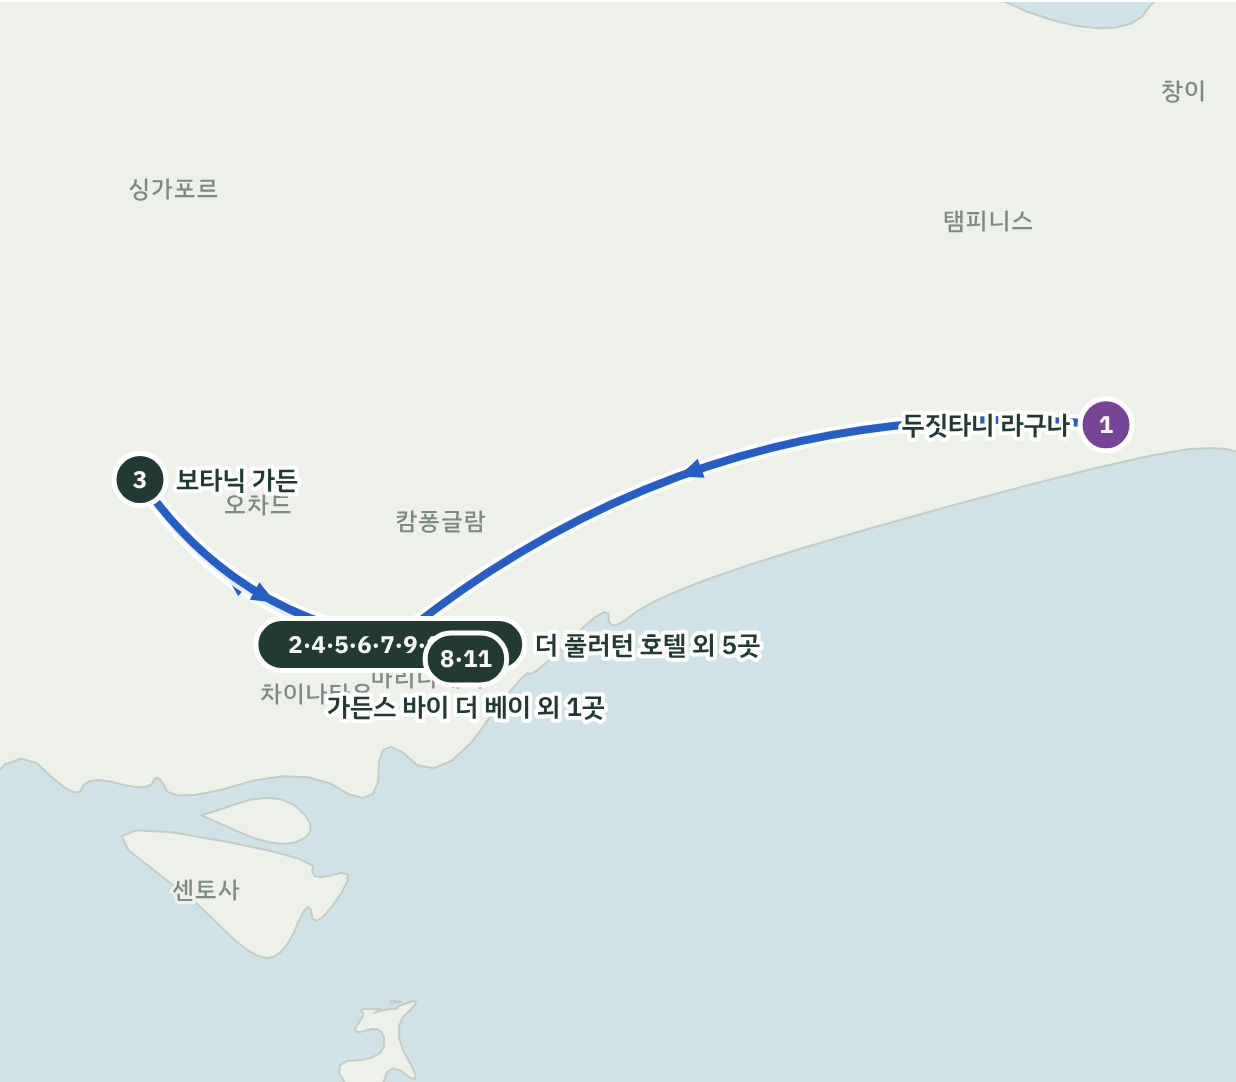
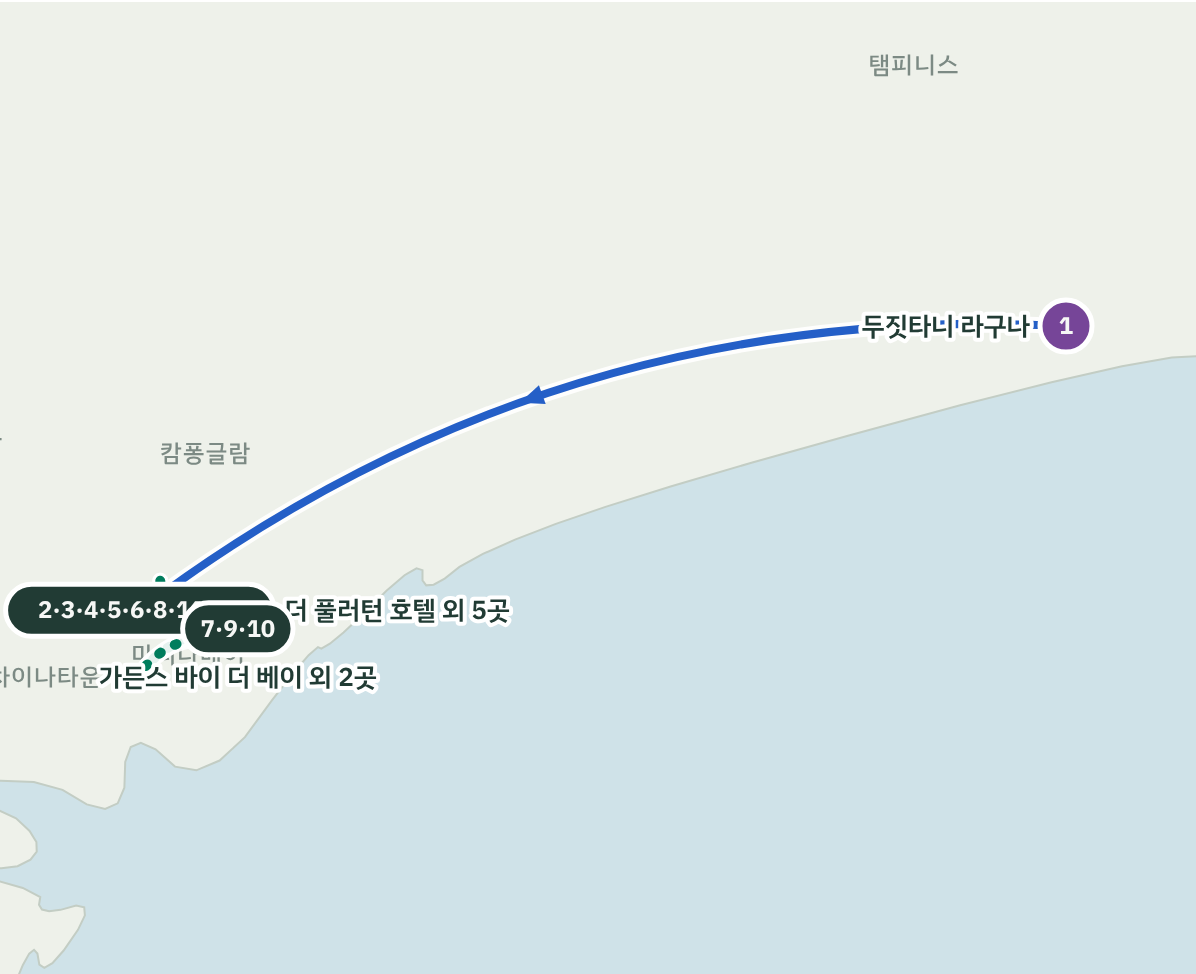
2일차(12/3) 지도 새 일정으로 업데이트
Claude-Session: https://claude.ai/code/session_01L2aYEXFB66TzMMbesmNc18

diff --git a/index.html b/index.html
@@ -1911,7 +1911,7 @@ function up(){var l=w.querySelector(".msarr.l"),r=w.querySelector(".msarr.r");l.
 // Real street map (OneMap) on the public site; the Claude viewer blocks map tiles, so it keeps the picture.
 (function(){
   if(!/github\.io$/.test(location.hostname)) return;
-  var P={"airport": [1.357, 103.989, "창이공항", 0], "dusit": [1.32, 103.963, "두짓타니 라구나", 1], "fullerton": [1.2863, 103.8532, "더 풀러턴 호텔", 1], "palm": [1.2857, 103.8543, "팜 비치 시푸드", 0], "merlion": [1.2868, 103.8546, "머라이언 파크", 0], "ginger": [1.3022, 103.8365, "진저릴리", 0], "ion": [1.304, 103.8319, "오차드로드 크리스마스 조명", 0], "lantern": [1.2838, 103.8536, "랜턴 루프탑바", 0], "luge": [1.2542, 103.8167, "스카이라인 루지", 0], "zip": [1.2528, 103.8138, "메가짚", 0], "weave": [1.2566, 103.8213, "WEAVE 점심", 0], "ocean": [1.2586, 103.819, "싱가포르 오셔나리움", 0], "jumbo": [1.2895, 103.8455, "점보 시푸드 리버사이드 포인트", 0], "gbtb": [1.2841, 103.8648, "가든스 바이 더 베이", 0], "maxwell": [1.2803, 103.8449, "맥스웰 푸드센터", 0], "btr": [1.2815, 103.8442, "불아사", 0], "jewel": [1.3602, 103.9894, "쥬얼 창이", 0], "t4": [1.3383, 103.984, "창이공항 터미널 4", 0], "safari": [1.4022, 103.788, "나이트사파리", 0], "faber": [1.2716, 103.8195, "마운트페이버 케이블카", 0], "cablesentosa": [1.2551, 103.8172, "케이블카 센토사역", 0], "supertree": [1.2816, 103.8636, "슈퍼트리 그로브", 0], "lavo": [1.2843, 103.8597, "라보", 0], "cruise": [1.283, 103.8612, "리버크루즈", 0], "trapizza": [1.2556, 103.8106, "트라피자", 0], "palawan": [1.2493, 103.8216, "팔라완 비치", 0], "botanic": [1.3116, 103.8148, "보타닉 가든", 0], "songfa": [1.2891, 103.8467, "송파 바쿠테 본점", 0], "orchard": [1.3034, 103.835, "오차드로드", 0], "helix": [1.2876, 103.8603, "헬릭스 브리지", 0], "mbs": [1.2834, 103.8607, "MBS 스카이파크 전망대", 0], "satay": [1.2818, 103.869, "사테 바이 더 베이", 0], "tanjong": [1.244, 103.8298, "탄중 비치클럽", 0], "haji": [1.3008, 103.859, "하지레인", 0]}, DAYS={"d1": [["airport", null, "00:15"], ["dusit", "taxi", "02:00"]], "d2": [["dusit", null, "10:00"], ["fullerton", "taxi", "10:30"], ["merlion", "walk", "11:00"], ["palm", "walk", "12:30"], ["fullerton", "walk", "14:00"], ["helix", "walk", "15:45"], ["gbtb", "walk", "16:15"], ["lavo", "walk", "18:15"], ["cruise", "walk", "20:00"], ["supertree", "walk", "21:00"], ["fullerton", "taxi", "22:15"]], "d3": [["fullerton", null, "09:00"], ["faber", "taxi", "09:30"], ["cablesentosa", "cable", "09:50"], ["luge", "walk", "10:00"], ["trapizza", "walk", "12:30"], ["palawan", "shuttle", "14:00"], ["tanjong", "walk", "15:00"], ["fullerton", "taxi", "17:00"], ["safari", "taxi", "19:15"], ["ion", "taxi", "22:15"], ["fullerton", "taxi", "23:00"]], "d4": [["fullerton", null, "08:30"], ["botanic", "taxi", "09:05"], ["btr", "taxi", "11:15"], ["songfa", "taxi", "12:00"], ["orchard", "taxi", "13:00"], ["jumbo", "taxi", "15:00"], ["fullerton", "taxi", "16:30"], ["jewel", "taxi", "17:30"], ["t4", "shuttle", "20:45"]]}, R={"d1": [["공항 → 숙소", 0, 1]], "d2": [["하루 전체", 0, 10], ["오전 이동", 0, 2], ["베이 산책", 2, 6], ["저녁·야경", 6, 10]], "d3": [["하루 전체", 0, 10], ["센토사 입도", 0, 2], ["센토사 해변", 2, 6], ["사파리·야경", 6, 10]], "d4": [["하루 전체", 0, 8], ["시내 관광", 0, 6], ["공항 이동", 6, 7], ["쥬얼·출국", 7, 8]]}, DEF={"d1": 0, "d2": 0, "d3": 0, "d4": 0};
+  var P={"airport": [1.357, 103.989, "창이공항", 0], "dusit": [1.32, 103.963, "두짓타니 라구나", 1], "fullerton": [1.2863, 103.8532, "더 풀러턴 호텔", 1], "palm": [1.2857, 103.8543, "팜 비치 시푸드", 0], "merlion": [1.2868, 103.8546, "머라이언 파크", 0], "ginger": [1.3022, 103.8365, "진저릴리", 0], "ion": [1.304, 103.8319, "오차드로드 크리스마스 조명", 0], "lantern": [1.2838, 103.8536, "랜턴 루프탑바", 0], "luge": [1.2542, 103.8167, "스카이라인 루지", 0], "zip": [1.2528, 103.8138, "메가짚", 0], "weave": [1.2566, 103.8213, "WEAVE 점심", 0], "ocean": [1.2586, 103.819, "싱가포르 오셔나리움", 0], "jumbo": [1.2895, 103.8455, "점보 시푸드 리버사이드 포인트", 0], "gbtb": [1.2841, 103.8648, "가든스 바이 더 베이", 0], "maxwell": [1.2803, 103.8449, "맥스웰 푸드센터", 0], "btr": [1.2815, 103.8442, "불아사", 0], "jewel": [1.3602, 103.9894, "쥬얼 창이", 0], "t4": [1.3383, 103.984, "창이공항 터미널 4", 0], "safari": [1.4022, 103.788, "나이트사파리", 0], "faber": [1.2716, 103.8195, "마운트페이버 케이블카", 0], "cablesentosa": [1.2551, 103.8172, "케이블카 센토사역", 0], "supertree": [1.2816, 103.8636, "슈퍼트리 그로브", 0], "lavo": [1.2843, 103.8597, "라보", 0], "cruise": [1.283, 103.8612, "리버크루즈", 0], "trapizza": [1.2556, 103.8106, "트라피자", 0], "palawan": [1.2493, 103.8216, "팔라완 비치", 0], "botanic": [1.3116, 103.8148, "보타닉 가든", 0], "songfa": [1.2891, 103.8467, "송파 바쿠테 본점", 0], "orchard": [1.3034, 103.835, "오차드로드", 0], "helix": [1.2876, 103.8603, "헬릭스 브리지", 0], "mbs": [1.2834, 103.8607, "MBS 스카이파크 전망대", 0], "satay": [1.2818, 103.869, "사테 바이 더 베이", 0], "tanjong": [1.244, 103.8298, "탄중 비치클럽", 0], "haji": [1.3008, 103.859, "하지레인", 0], "level33": [1.2797, 103.8539, "레벨33", 0], "esplanade": [1.2898, 103.8556, "에스플러네이드 옥상", 0]}, DAYS={"d1": [["airport", null, "00:15"], ["dusit", "taxi", "02:00"]], "d2": [["dusit", null, "10:00"], ["fullerton", "taxi", "10:30"], ["merlion", "walk", "11:00"], ["esplanade", "walk", "11:30"], ["palm", "walk", "12:30"], ["fullerton", "walk", "14:00"], ["gbtb", "taxi", "15:45"], ["level33", "walk", "17:30"], ["cruise", "walk", "20:00"], ["supertree", "walk", "21:00"], ["lavo", "walk", "22:15"], ["fullerton", "taxi", "23:15"]], "d3": [["fullerton", null, "09:00"], ["faber", "taxi", "09:30"], ["cablesentosa", "cable", "09:50"], ["luge", "walk", "10:00"], ["trapizza", "walk", "12:30"], ["palawan", "shuttle", "14:00"], ["tanjong", "walk", "15:00"], ["fullerton", "taxi", "17:00"], ["safari", "taxi", "19:15"], ["ion", "taxi", "22:15"], ["fullerton", "taxi", "23:00"]], "d4": [["fullerton", null, "08:30"], ["botanic", "taxi", "09:05"], ["btr", "taxi", "11:15"], ["songfa", "taxi", "12:00"], ["orchard", "taxi", "13:00"], ["jumbo", "taxi", "15:00"], ["fullerton", "taxi", "16:30"], ["jewel", "taxi", "17:30"], ["t4", "shuttle", "20:45"]]}, R={"d1": [["공항 → 숙소", 0, 1]], "d2": [["하루 전체", 0, 11], ["오전 이동", 0, 4], ["오후", 4, 7], ["저녁·야경", 7, 11]], "d3": [["하루 전체", 0, 10], ["센토사 입도", 0, 2], ["센토사 해변", 2, 6], ["사파리·야경", 6, 10]], "d4": [["하루 전체", 0, 8], ["시내 관광", 0, 6], ["공항 이동", 6, 7], ["쥬얼·출국", 7, 8]]}, DEF={"d1": 0, "d2": 0, "d3": 0, "d4": 0};
   var DIR={palm:'bottom',fullerton:'left',cablesentosa:'top',zip:'bottom',trapizza:'bottom',jumbo:'top',songfa:'right',luge:'right'};
   var OFF={right:[16,0],left:[-16,0],bottom:[0,14],top:[0,-14]};
   var COL={taxi:'#245fc7',walk:'#007d5d',rail:'#b5530f',shuttle:'#b5530f',cable:'#8a3ffc',zip:'#8a3ffc'};

diff --git a/map.html b/map.html
@@ -171,6 +171,8 @@ const P = { // [lat, lon, 한국어 이름, 구글맵 검색어, hotel?]
   cablesentosa:["1.2551","103.8172","케이블카 센토사역","Singapore Cable Car Sentosa Station"],
   supertree:["1.2816","103.8636","슈퍼트리 그로브 (가든 랩소디)","Supertree Grove Gardens by the Bay"],
   lavo:["1.2843","103.8597","라보 (MBS 타워1)","LAVO Singapore Marina Bay Sands"],
+  level33:["1.2797","103.8539","레벨33 (MBFC 타워1)","LeVeL33 Singapore"],
+  esplanade:["1.2898","103.8556","에스플러네이드 옥상","Esplanade Roof Terrace Singapore"],
   cruise:["1.2830","103.8612","리버크루즈 (베이프런트 노스)","Water B Bayfront North Jetty"],
   trapizza:["1.2556","103.8106","트라피자 (실로소)","Trapizza Siloso Beach"],
   palawan:["1.2493","103.8216","팔라완 비치 · 흔들다리","Palawan Beach Suspension Bridge"],
@@ -194,22 +196,22 @@ const DAYS = [
     tips:["택시는 공항 택시 승강장에서 바로 타면 돼요. 4명에 큰 짐이 많으면 Grab에서 6인승(GrabFamily/6-seater)을 부르세요."]
   },
   { id:"d2", tab:"12/3 목", sub:"마리나베이 · 가든스", title:"12월 3일(목) · 마리나베이와 가든스 바이 더 베이",
-    note:"보타닉 가든(선택) → 머라이언 파크 → 팜 비치 점심 → 체크인·라운지 티 → 헬릭스 브리지 → 가든스 돔 → 라보 저녁 → 리버크루즈 → 크리스마스 원더랜드·가든 랩소디.",
+    note:"두짓타니 체크아웃 → 풀러턴에 짐 → 머라이언 파크 → 에스플러네이드 옥상 → 팜 비치 점심 → 라운지 체크인 → 가든스 돔 → 레벨33 저녁 → 리버크루즈 → 크리스마스 원더랜드·가든 랩소디 → 라보 디저트.",
     stops:[
-      {p:"dusit", t:"08:30", d:"07:30 조식 · 체크아웃"},
-      {p:"fullerton", t:"09:00", d:"짐 맡기기", leg:{m:"taxi", min:"20~25분", cost:"S$20~25"}},
-      {p:"botanic", t:"09:20", d:"보타닉 가든 · 내셔널 오키드 가든 (힘들면 생략)", leg:{m:"taxi", min:"15분", cost:"S$12~16"}},
-      {p:"merlion", t:"11:00", d:"11:00~12:15 · 사진 찍고 마리나베이 구경", leg:{m:"taxi", min:"15분", cost:"S$12~16"}},
-      {p:"palm", t:"12:30", d:"점심 · 칠리크랩 (예약 완료)", leg:{m:"walk", min:"3분"}},
+      {p:"dusit", t:"10:00", d:"08:30 조식 · 체크아웃"},
+      {p:"fullerton", t:"10:30", d:"짐 맡기기", leg:{m:"taxi", min:"20~25분", cost:"S$20~25"}},
+      {p:"merlion", t:"11:00", d:"머라이언 파크 · 가족사진", leg:{m:"walk", min:"3분"}},
+      {p:"esplanade", t:"11:30", d:"에스플러네이드 옥상 정원 (무료)", leg:{m:"walk", min:"10분"}},
+      {p:"palm", t:"12:30", d:"점심 · 팜 비치 시푸드 (예약 완료)", leg:{m:"walk", min:"10분"}},
       {p:"fullerton", t:"14:00", d:"체크인 · 클럽 라운지 애프터눈티", leg:{m:"walk", min:"3분"}},
-      {p:"helix", t:"15:45", d:"헬릭스 브리지 건너기", leg:{m:"walk", min:"15~20분"}},
-      {p:"gbtb", t:"16:15", d:"클라우드 포레스트 · 플라워돔", leg:{m:"walk", min:"15분"}},
-      {p:"lavo", t:"18:15", d:"저녁 · 라보 (MBS 타워1 57층)", leg:{m:"walk", min:"10~15분"}},
-      {p:"cruise", t:"20:00", d:"리버크루즈 (Water B) · 배 위에서 스펙트라 쇼, 같은 곳에서 내림", leg:{m:"walk", min:"5분"}},
+      {p:"gbtb", t:"15:45", d:"클라우드 포레스트 · 플라워돔 (15:30 택시)", leg:{m:"taxi", min:"10분", cost:"S$10~14"}},
+      {p:"level33", t:"17:30", d:"저녁 · 레벨33 수제맥주 (예약 완료, 20시까지)", leg:{m:"walk", min:"20~25분", cost:"MBS 쇼핑몰 지나서 · 비 오면 택시"}},
+      {p:"cruise", t:"20:00", d:"리버크루즈 (베이프런트 노스) · 헬릭스 다리도 배에서 봐요", leg:{m:"walk", min:"10~15분"}},
       {p:"supertree", t:"21:00", d:"크리스마스 원더랜드 · 21:35 가든 랩소디", leg:{m:"walk", min:"10~15분"}},
-      {p:"fullerton", t:"22:15", d:"숙소 복귀", leg:{m:"taxi", min:"10분", cost:"S$10~14"}},
+      {p:"lavo", t:"22:15", d:"라보 57층 · 디저트와 한 잔 (자리 예약 완료)", leg:{m:"walk", min:"10~15분"}},
+      {p:"fullerton", t:"23:15", d:"숙소 복귀", leg:{m:"taxi", min:"5~10분", cost:"S$10 안팎"}},
     ],
-    tips:["보타닉 가든이 힘들면 빼고, 10:00에 체크아웃해서 풀러턴에 짐을 맡긴 뒤 11:00 머라이언 파크로 걸어가면 돼요.","라보는 MBS 타워1 57층이라 호텔 로비 쪽 전용 엘리베이터로 올라가요.","가든 랩소디가 끝나면 가든스 택시 승강장이 붐벼요. Grab은 끝나기 5~10분 전에 부르면 덜 기다려요."]
+    tips:["레벨33은 저녁 8시에 자리를 비워 줘야 해요. 리버크루즈 선착장까지 걸어서 10~15분이에요.","라보는 MBS 타워1 57층이라 호텔 로비 쪽 전용 엘리베이터로 올라가요.","가든 랩소디가 끝나면 라보까지 걸어가요. 다리가 아프면 택시를 타요."]
   },
   { id:"d3", tab:"12/4 금", sub:"센토사 · 나이트사파리", title:"12월 4일(금) · 센토사와 나이트사파리",
     note:"케이블카로 센토사 → 루지 → 트라피자 점심 → 팔라완 비치 → 탄중 비치클럽 → 호텔 휴식 → 나이트사파리 → (선택) 오차드 크리스마스 조명.",
@@ -300,7 +302,7 @@ function ranges(){
   if(day.id==='d1') return [['공항 → 숙소',0,1]];
   if(day.id==='d3') return [['하루 전체',0,10],['센토사 입도',0,2],['센토사 해변',2,6],['사파리·야경',6,10]];
   if(day.id==='d4') return [['하루 전체',0,7],['시내 관광',0,5],['공항 이동',5,6],['쥬얼·출국',6,7]];
-  return day.id==='d2' ? [['하루 전체',0,11],['오전 이동',0,3],['베이 산책',3,7],['저녁·야경',7,11]] : [['주요 동선',0,day.stops.length-1],['하루 전체',0,day.stops.length-1]];
+  return day.id==='d2' ? [['하루 전체',0,11],['오전 이동',0,4],['오후',4,7],['저녁·야경',7,11]] : [['주요 동선',0,day.stops.length-1],['하루 전체',0,day.stops.length-1]];
 }
 function selectScope(i){
   scope=i; sel=null; markRail();
